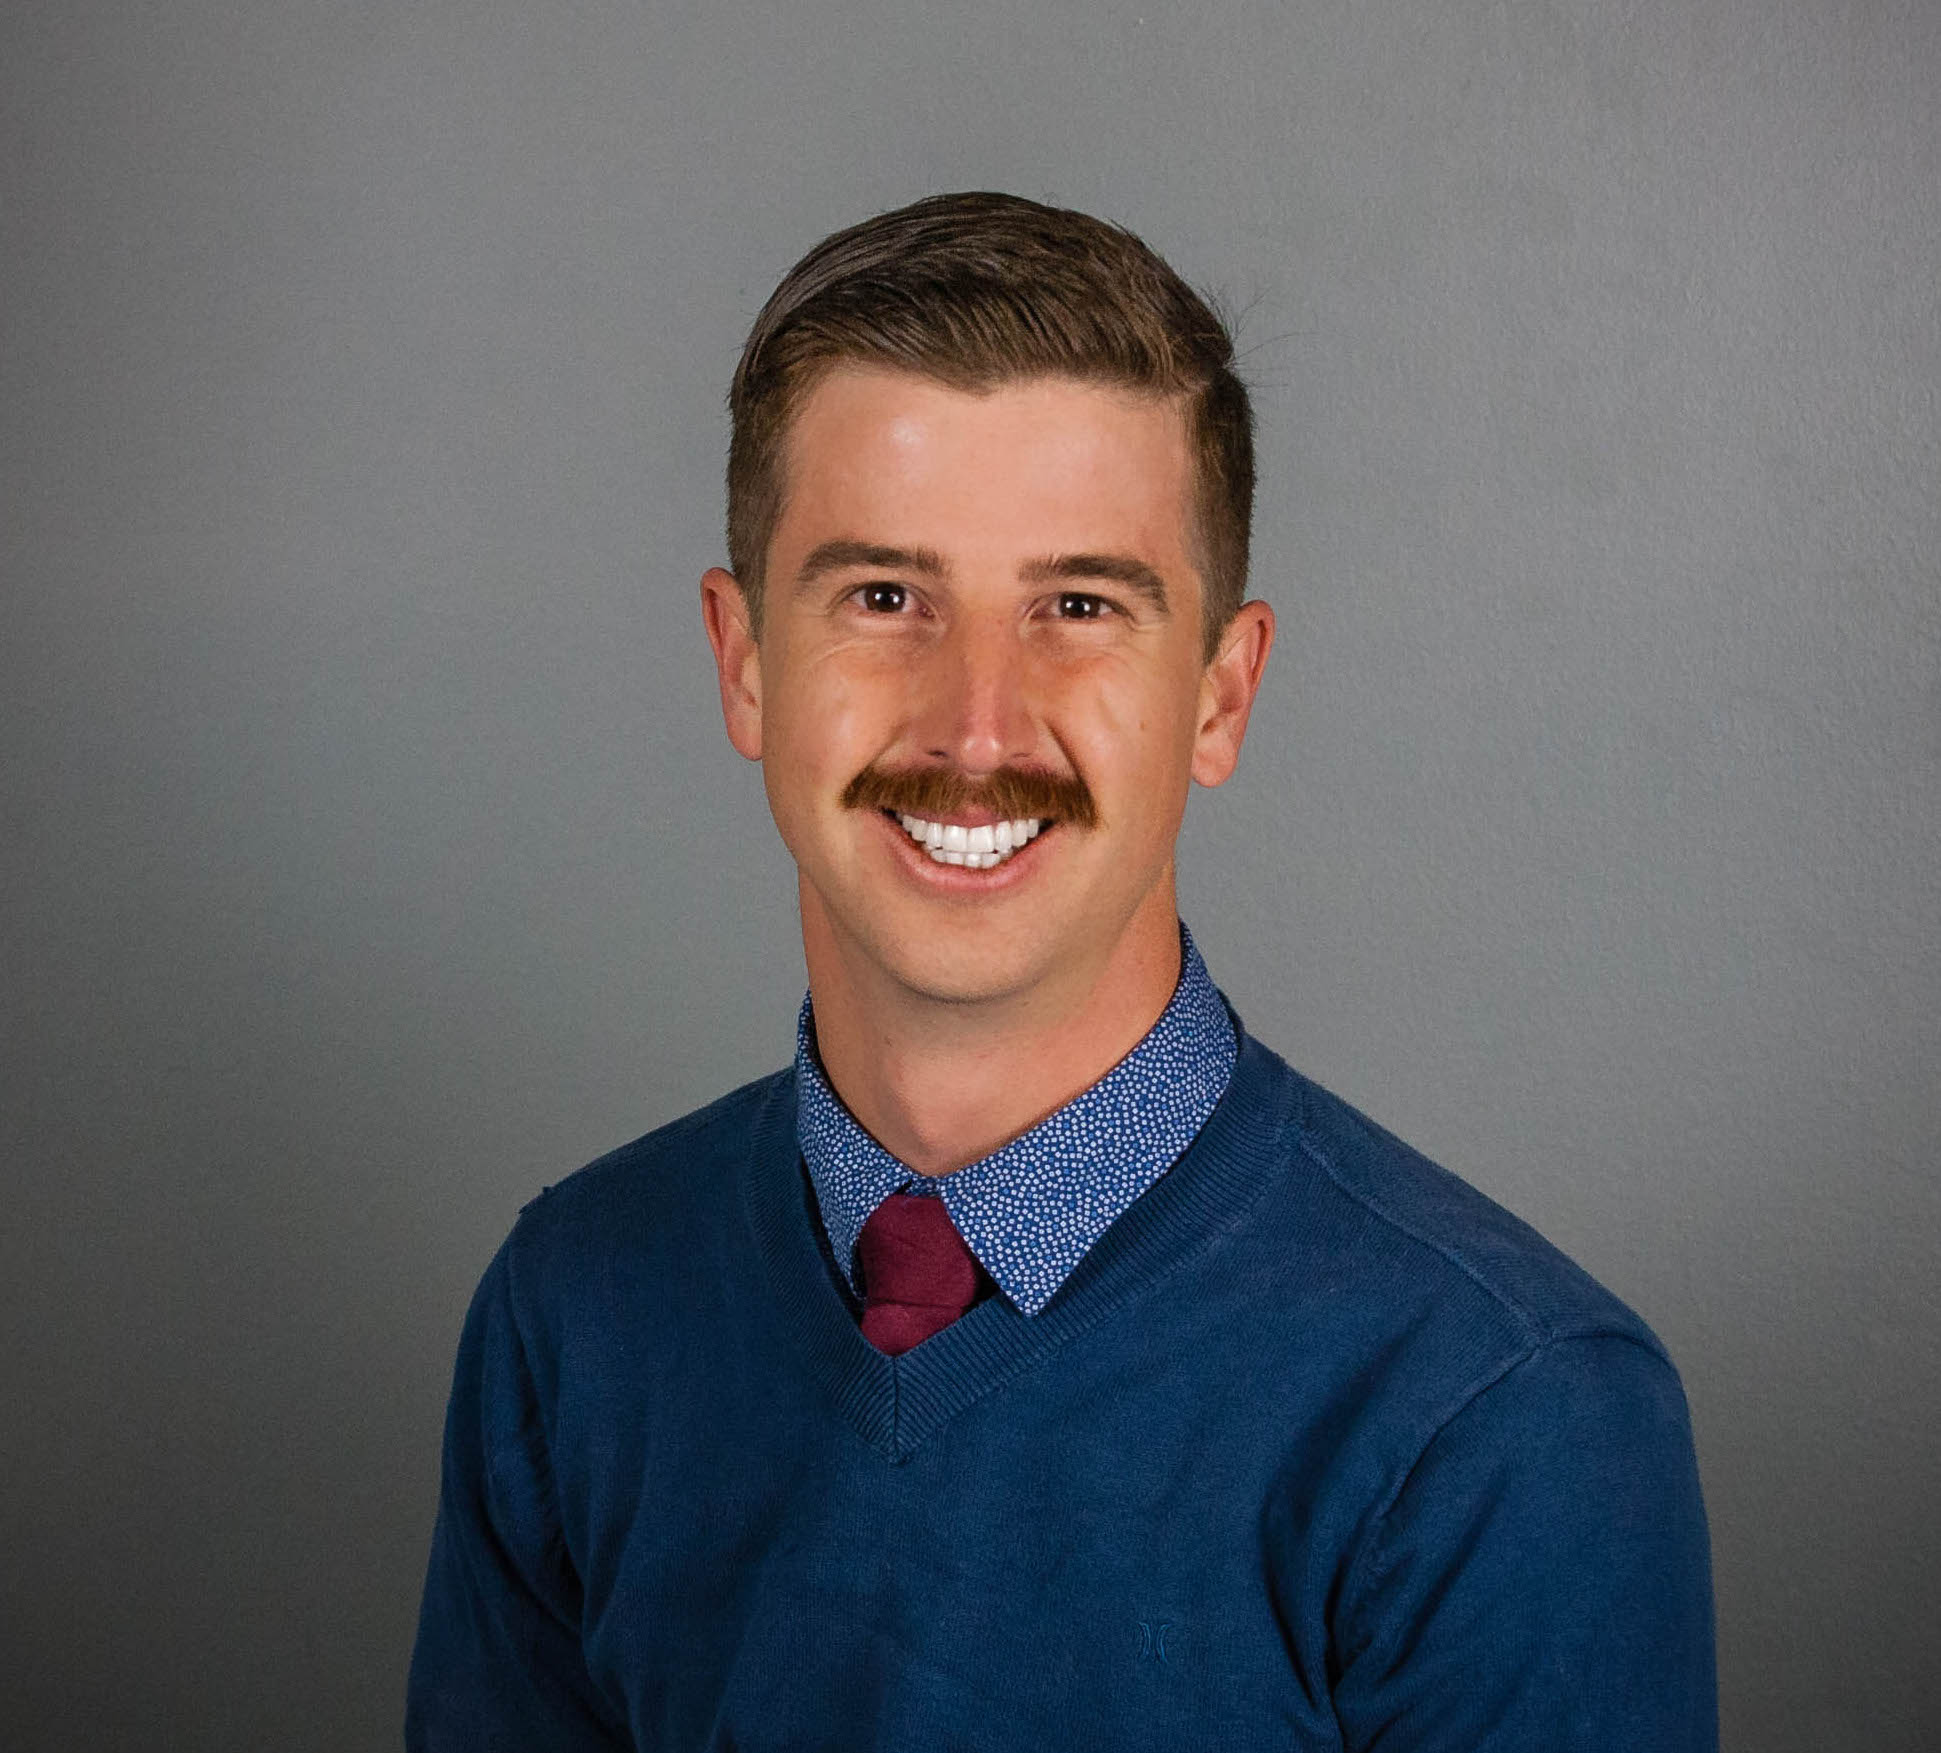
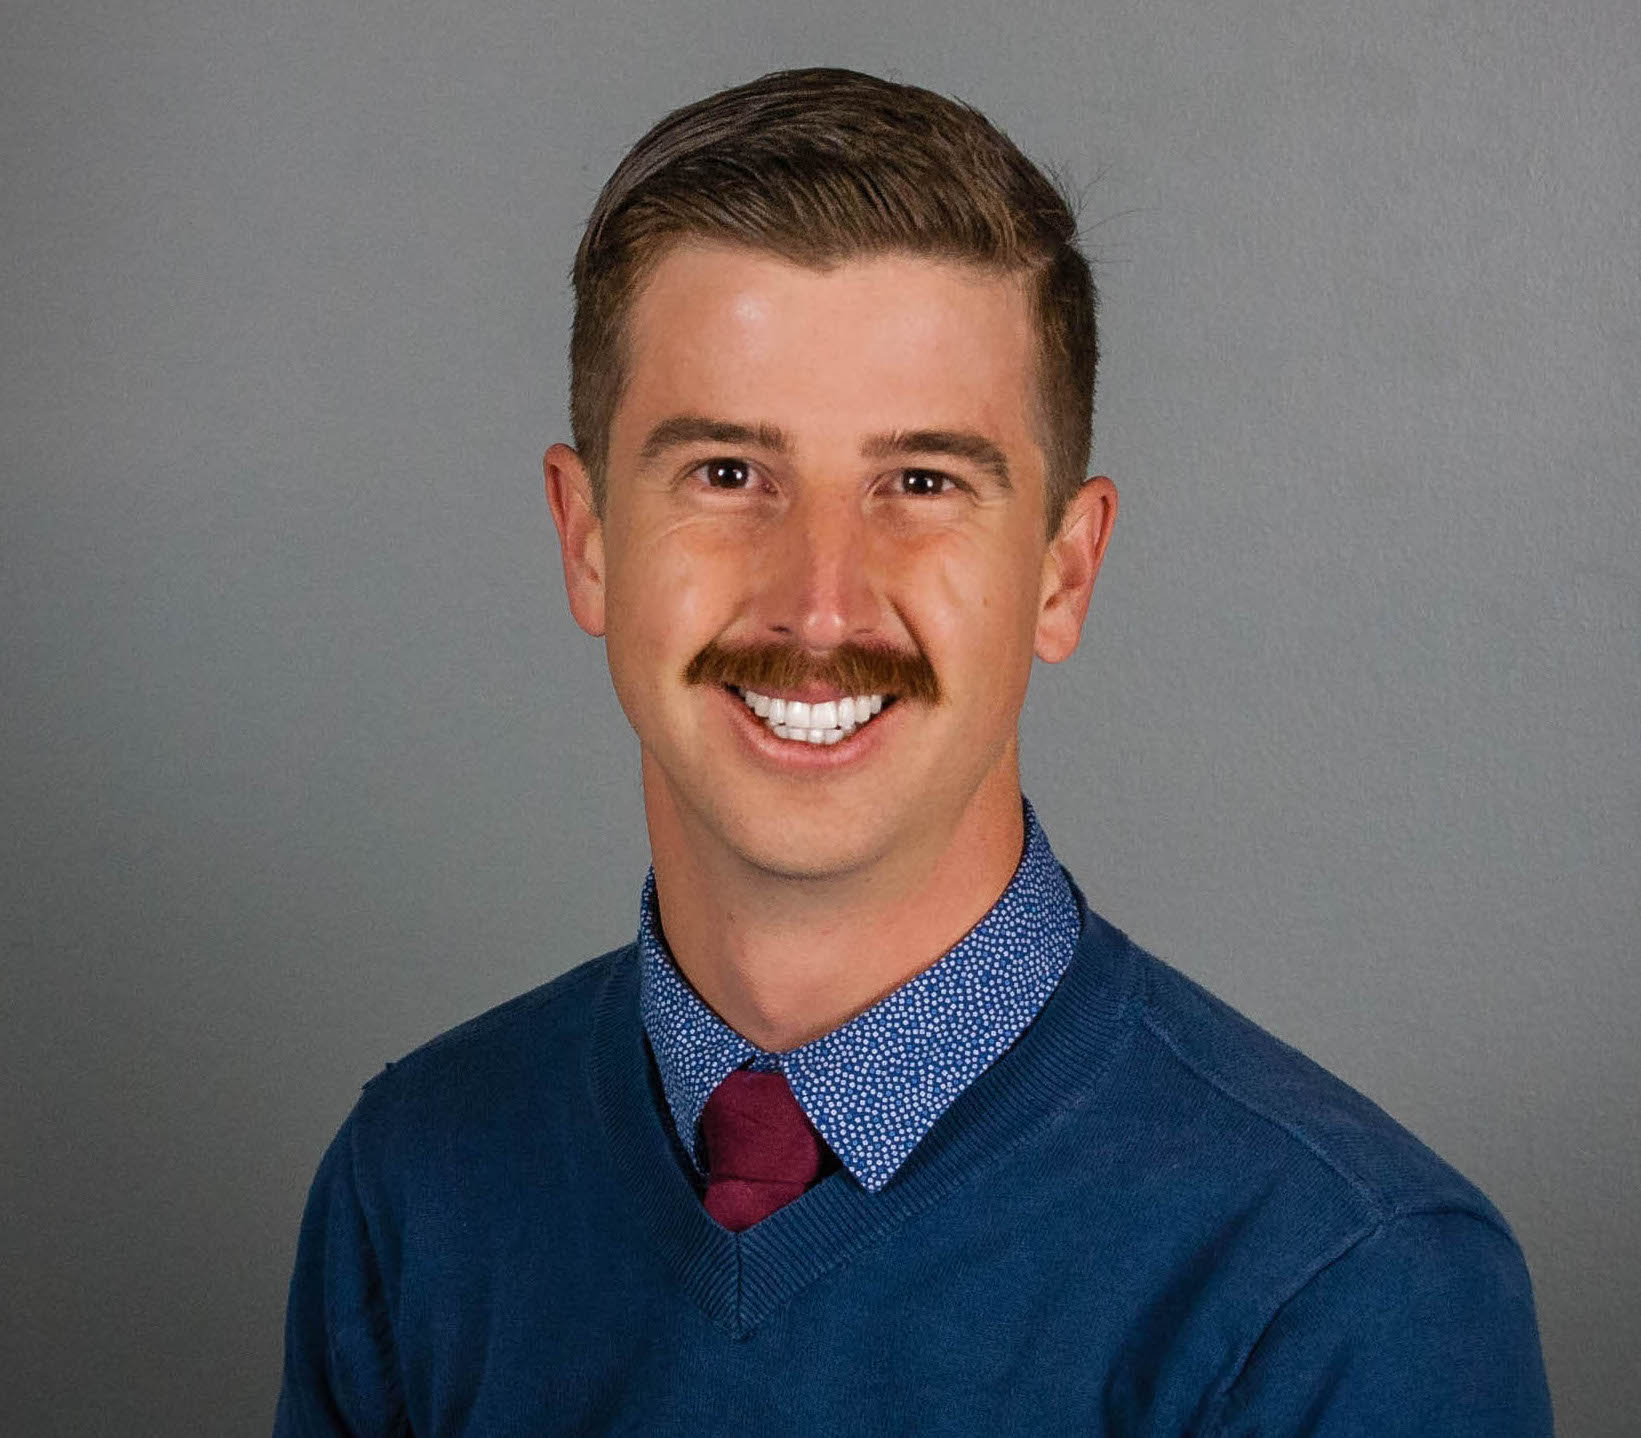
Increase text size, include headshot

diff --git a/index.html b/index.html
@@ -36,7 +36,9 @@
           <span class="element landing" style="white-space:pre"></span>
           <br>
           <br>
-          <section class="landing">I'm an entry level programming interested in taking on complex challenges in backend engineering and data science.
+          <section class="landing main-text">
+            I'm an entry level programmer interested in taking on complex challenges in backend engineering and data science.
+            <br>
             <br>If you are curious to know more, here are:
             <br>my <a href="https://resume.creddle.io/resume/14ngmti21v1" target="_blank">Resume</a> for career experience,
             <br>my <a href="/portfolio">Portfolio</a> for coding experience,

diff --git a/assets/css/style.css b/assets/css/style.css
@@ -33,9 +33,11 @@ main {
 }
 
 .headshot img {
+  border: 1px solid #ddd;
+  border-radius: 50px;
+  padding: 5px;
   height: auto;
-  width: 300px;
-  border-radius: 10px;
+  width: 400px;
   margin: 20px;
 }
 
@@ -142,11 +144,15 @@ a {
 .landing
 {
    line-height: 1.5;
-   font-size: 1rem;
+   font-size: 1.25rem;
 }
 
 .landing a {
   font-weight: bold;
+}
+
+.main-text {
+  padding-right: 20px;
 }
 
 h1, h2, h3, h4, h5, h6 {
@@ -158,7 +164,7 @@ h1, h2, h3, h4, h5, h6 {
 }
 
 h1 {
-  font-size: 2rem;
+  font-size: 4rem;
 }
 
 h2 {
